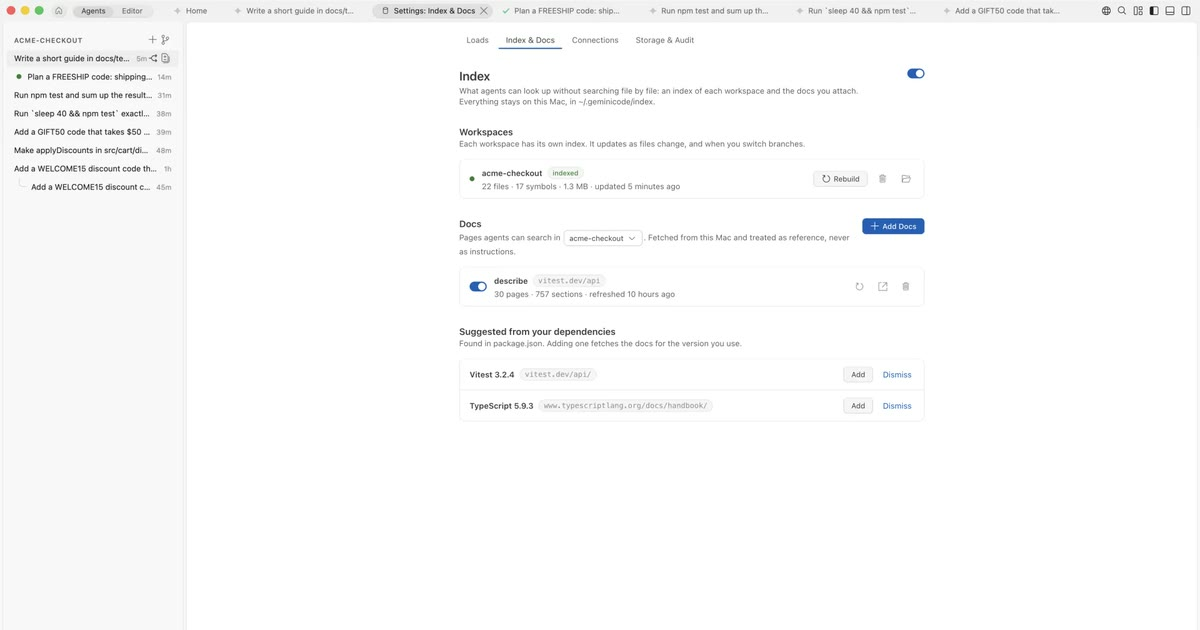
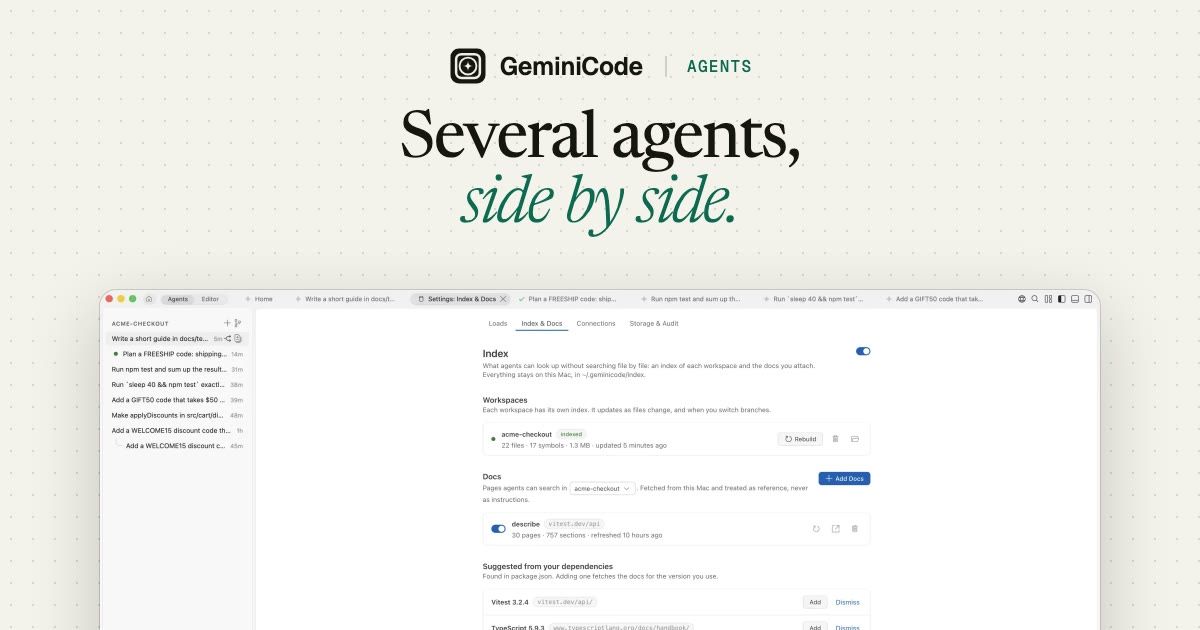
Make the link previews readable cards, and add one for GitHub
The site's link previews were the top-left corner of a product shot, shrunk to
1200 x 630: unreadable interface with no name or message, and chat apps that
crop previews square showed a slice of code. og.mts now draws each preview as
a card in the site's fonts and palette: the mark, the page's name and its
headline over the page's screenshot, kept to the middle square. The release
notes pages get their own card.

The same script makes gemini/branding/social-preview.jpg, a 1280 x 640 card on
Charcoal with the mark, the name and the headline and no screenshot, for the
repository's Social preview setting on GitHub.

diff --git a/gemini/docs/RELEASING.md b/gemini/docs/RELEASING.md
@@ -105,7 +105,7 @@ The build also writes:
 
 Every product screenshot can be opened full size, and every clip is described as a `VideoObject`, with its duration read from the MP4 and its date from `clipDates` in `build.mts`. The build stops when a clip has no date there, so add one with each new clip, and change it when a clip is retaken. Docs pages show when their Markdown last changed and list it in `sitemap.xml`, from git, or from GitHub's API in the Pages workflow's one-commit checkout. Pages that may be indexed allow large image previews (`max-image-preview:large`).
 
-Link previews use the 1200 × 630 JPEG crops in `media/og/`, one for the landing page and one per feature page. Remake one with `ffmpeg -i <shot>-light.webp -vf "crop=2000:1050:0:0,scale=1200:630:flags=lanczos" -q:v 3 og/<page>.jpg` when its screenshot is retaken.
+Link previews use the 1200 × 630 JPEG cards in `media/og/`, one for the landing page, one per feature page and one for the release notes: the page's headline in the site's fonts over its light screenshot, kept to the middle square because some apps crop previews that way. `node gemini/site/og.mts [name ...]` remakes them (all when no name is given) with Google Chrome and ffmpeg; the words and the screenshot of each are in its `cards`. Remake a card when its screenshot is retaken. The same script makes `gemini/branding/social-preview.jpg` (its `github` card, 1280 × 640: the mark, the name and the headline on Charcoal, with no screenshot), which is uploaded by hand in the repository's Settings → General → Social preview for links to the repository on GitHub; upload it again whenever it is remade.
 
 ### Screenshots and clips
 

diff --git a/gemini/site/MEDIA-TODO.md b/gemini/site/MEDIA-TODO.md
@@ -46,4 +46,4 @@ Nothing at the moment.
 - A merge request review in a checkout without `node_modules` can sit on `npx tsc`; reject commands other than the reviewer's git reads.
 - The Index & Docs page shows documentation sources shared with every folder on the Mac. Don't remove one to tidy a shot.
 
-The link preview images in `media/og/` (1200 × 630 JPEG) are crops of the light shots named in `ogImages` in `build.mts`. Remake one when its shot is retaken; [RELEASING.md](../docs/RELEASING.md#search-engines-link-previews-and-ai-tools) has the command.
+The link preview images in `media/og/` (1200 × 630 JPEG) are cards made by `og.mts` from the light shots it names. Remake one when its shot is retaken; [RELEASING.md](../docs/RELEASING.md#search-engines-link-previews-and-ai-tools) has the command.
